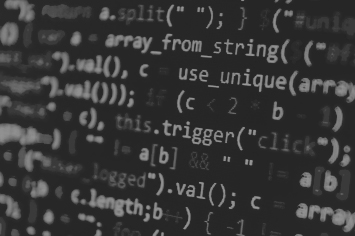
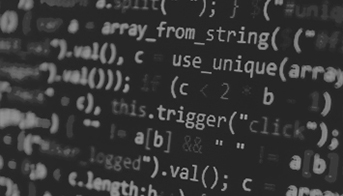
v4

diff --git a/index.html b/index.html
@@ -4,6 +4,7 @@
         <meta charset="UTF-8">
         <link href="https://fonts.googleapis.com/css?family=Open+Sans" rel="stylesheet">
         <link rel="stylesheet" type="text/css" href="myCSS/index.css">
+        <link rel="stylesheet" type="text/css" href="myCSS/gallery.css">
 
         <script src="myJS/mainIndexJS.js" type="text/javascript"></script>
 
@@ -36,8 +37,8 @@
             <div class="row">
                 <div class="col-md-4 col-4 col-sm-4 col-lg-4 col-xl-4 align-self-center p-0" id="myhov">
                     <input type="checkbox" id="design_cb"/>
-                    <label for="design_cb" class="design_lbl">
-                        <img class="center-block img-fluid side-buffer resp-height"/>
+                    <label for="design_cb" class="design_lbl gal-buffer-ind gal-crop-ind">
+                        <img class="center-block img-fluid gal-buffer-ind" src="" style="padding: 100%; padding-bottom: 0; margin-bottom: -39.25%; border-bottom: 0;"/>
                     </label>
                     <img id="icid" class="center-block img-fluid side-buffer" src="myCSS/myIMG/design_ic2.png" style="position: absolute; top: 0; pointer-events: none;"/>
                     <p id="descriptions" class="text-center side-buffer" style="position: absolute; line-height: normal; color: white; pointer-events: none;">
@@ -58,10 +59,10 @@
                     </p>
                 </div>
 
-                <div class="col-md-4 col-4 col-sm-4 col-lg-4 col-xl-4 align-self-center p-0" id="myhov">
+                <div class="col-md-4 col-4 col-sm-4 col-lg-4 col-xl-4 align-self-center p-0" id="myhov" >
                     <input type="checkbox" id="code_cb"/>
-                    <label for="code_cb" class="code_lbl">
-                        <img  class="center-block img-fluid side-buffer resp-height"/>
+                    <label for="code_cb" class="code_lbl gal-buffer-ind gal-crop-ind">
+                        <img class="center-block img-fluid gal-buffer-ind" src="" style="padding: 100%; padding-bottom: 0; margin-bottom: -39.25%; border-bottom: 0;"/>
                     </label>
                     <img id="icid" class="center-block img-fluid side-buffer" src="myCSS/myIMG/code_ic2.png" style="position: absolute; top: 0; pointer-events: none;"/>
                     <p id="descriptions" class="text-center side-buffer" style="position: absolute; line-height: normal; color: white; pointer-events: none;">
@@ -82,8 +83,8 @@
 
                 <div class="col-md-4 col-4 col-sm-4 col-lg-4 col-xl-4 align-self-center p-0" id="myhov">
                     <input type="checkbox" id="music_cb"/>
-                    <label for="music_cb" class="music_lbl">
-                        <img  class="center-block img-fluid side-buffer resp-height" />
+                    <label for="music_cb" class="music_lbl gal-buffer-ind gal-crop-ind">
+                        <img class="center-block img-fluid gal-buffer-ind" src="" style="padding: 100%; padding-bottom: 0; margin-bottom: -39.25%; border-bottom: 0;"/>
                     </label>
                     <img id="icid" class="center-block img-fluid side-buffer" src="myCSS/myIMG/music_ic2.png" style="position: absolute; top: 0; pointer-events: none;"/>
                     <p id="descriptions" class="text-center side-buffer " style="position: absolute; line-height: normal; color: white; pointer-events: none;">

diff --git a/myCSS/index.css b/myCSS/index.css
@@ -47,43 +47,23 @@ input[type="checkbox"][id^="music_cb"]{  display: none;  }
 input[type="checkbox"][id^="code_cb"]{  display: none;  }
 input[type="checkbox"][id^="design_cb"]{  display: none;  }
 
-@-moz-document url-prefix() {
-    label.design_lbl img{
-        content: url("myIMG/design_bg.jpg");
-    }  :checked + label.design_lbl img {
-           content: url("myIMG/gradLine_bg.jpg");
-       }  :checked ~ #icid {
-              display: none;
-          }  :hover ~ #icid {
-                 animation: popcontent .4s;
-             } :checked ~ #descriptions {
-                   visibility: visible;
-               } #descriptions{
-                     visibility: hidden;
-                 } #icid{display: none;}
-}
-@supports (-ms-ime-align:auto) {
 
-    label.design_lbl img{
-        content: url("myIMG/design_bg.jpg");
-    }  :checked + label.design_lbl img {
-           content: url("myIMG/gradLine_bg.jpg");
-       }  :checked ~ #icid {
-              display: none;
-          }  :hover ~ #icid {
-                 animation: popcontent .4s;
-             } :checked ~ #descriptions {
-                   visibility: visible;
-               } #descriptions{
-                     visibility: hidden;
-                 } #icid{display: none;}
-}
+.gal-buffer-ind { width: 99%;  margin-right: auto; margin-left: auto; display: block; max-height: 171px;}
+.gal-crop-ind { overflow: hidden; }
 
 label.code_lbl img{
-    content: url("myIMG/code_bg.jpg");
+   background: url("myIMG/code_bg.jpg");
+   background-size: 50%;
+    background-repeat: no-repeat;
+    height: 50px;
+
 }  :checked + label.code_lbl img {
-       content: url("myIMG/gradLine_bg.jpg");
+       background: url("myIMG/gradLine_bg.jpg");
+       background-size: 50%;
+       background-repeat: no-repeat;
        filter: contrast(1.2);
+       height: 50px;
+
    }  :checked ~ #icid {
           display: none;
       }  :hover ~ #icid {
@@ -94,10 +74,18 @@ label.code_lbl img{
                  visibility: hidden;
              } #icid{transform: scale(.8,.8);}
 label.design_lbl img{
-    content: url("myIMG/design_bg.jpg");
+    background: url("myIMG/design_bg.jpg");
+    background-size: 50%;
+    background-repeat: no-repeat;
+    height: 50px;
+
 }  :checked + label.design_lbl img {
-       content: url("myIMG/gradLine_bg.jpg");
+       background: url("myIMG/gradLine_bg.jpg");
+       background-size: 50%;
+       background-repeat: no-repeat;
        filter: contrast(1.2);
+       height: 50px;
+
    }  :checked ~ #icid {
           display: none;
       }  :hover ~ #icid {
@@ -108,10 +96,18 @@ label.design_lbl img{
                  visibility: hidden;
              }
 label.music_lbl img {
-    content: url("myIMG/music_bg.jpg");
+    background: url("myIMG/music_bg.jpg");
+    background-size: 50%;
+    background-repeat: no-repeat;
+    height: 50px;
+
 }  :checked + label.music_lbl img {
-       content: url("myIMG/gradLine_bg.jpg");
+       background: url("myIMG/gradLine_bg.jpg");
+       background-size: 50%;
+       background-repeat: no-repeat;
        filter: contrast(1.2);
+       height: 50px;
+
    }  :checked ~ #icid {
           display: none;
       }  :hover ~ #icid {
